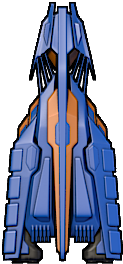
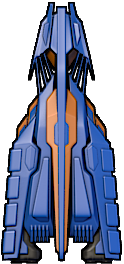
Got Rotation working mostly
Part of ship still dissapears on left side of the screen
Most likely a problem with the rotate function

diff --git a/Exa/src/ExaClient.java b/Exa/src/ExaClient.java
@@ -57,7 +57,7 @@ public class ExaClient extends javax.swing.JFrame {
 		}
 		
 		public void paintComponent(Graphics g) {
-			System.out.println("getting here");
+			
 			Graphics2D g2D = (Graphics2D)g.create();
 			g2D.drawImage(entity.getImage(), entity.getYLocation(), entity.getXLocation(), null);
 		}
@@ -73,10 +73,10 @@ public class ExaClient extends javax.swing.JFrame {
 		            entity.accelerate(1);
 		            break;
 		        case KeyEvent.VK_LEFT:
-		            entity.rotate(1);
+		            entity.rotate(-4);
 		            break;
 		        case KeyEvent.VK_RIGHT :
-		            entity.rotate(-1);
+		            entity.rotate(4);
 		            break;
 		     }
 		} 
@@ -102,7 +102,7 @@ public class ExaClient extends javax.swing.JFrame {
             	while(true){
                 frame.repaint();
                 frame.entity.updateLocation();
-                System.out.println("here");
+                
                 try {
                     Thread.sleep(30);
                 } catch (InterruptedException e) {

diff --git a/Exa/src/Entity.java b/Exa/src/Entity.java
@@ -26,9 +26,11 @@ public class Entity {
 	}
 	
 	public void updateLocation(){ //moves object according to momentum vector
-		location.x += momentum.x *Math.cos(momentum.y);
-		location.y += momentum.x *Math.sin(momentum.y);
+		location.x += (momentum.x * Math.cos(Math.toRadians(momentum.y)));
+		location.y -= momentum.x * Math.sin(Math.toRadians(momentum.y));
 		updateTransform();
+		System.out.println(location);
+		System.out.println("Momentum: " + momentum);
 	}
 	public void accelerate(double change){
 		momentum.x += change;
@@ -49,8 +51,7 @@ public class Entity {
 		return location.y;
 	}
 	private void updateTransform(){
-		//transform = AffineTransform.getRotateInstance(momentum.y,image.getWidth(),image.getHeight()/2);
-		
+		transform = AffineTransform.getRotateInstance(Math.toRadians(momentum.y), image.getWidth()/2,image.getHeight()/2);
 	}
 	public BufferedImage getImage(){
 		AffineTransformOp op = new AffineTransformOp(transform, AffineTransformOp.TYPE_BILINEAR);
